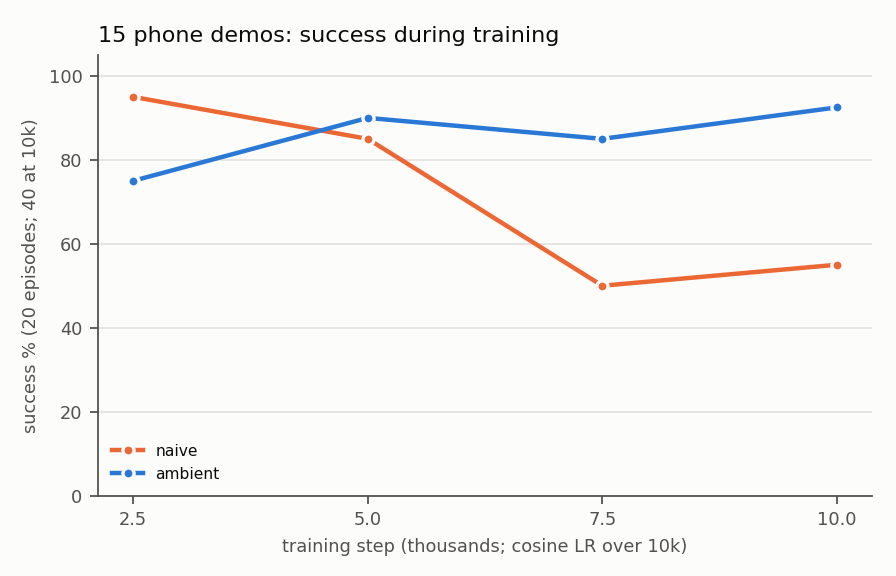
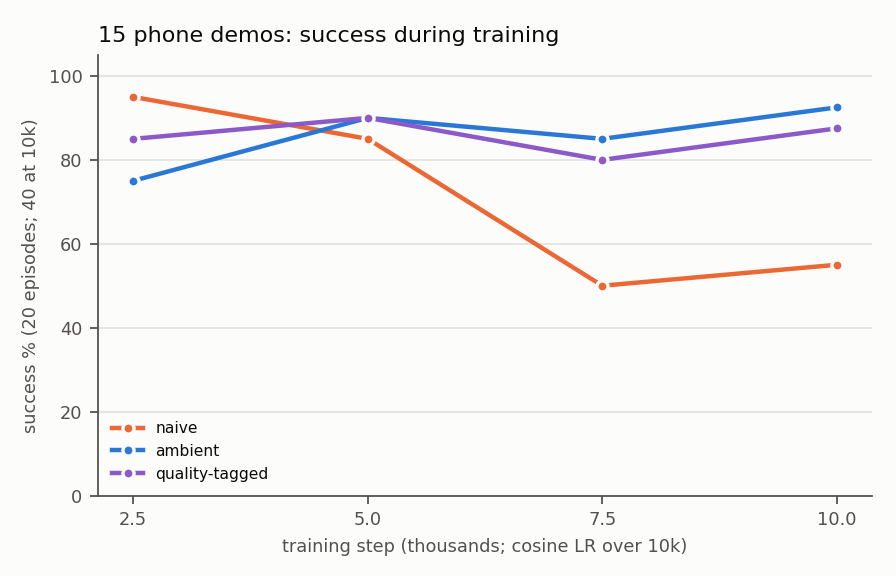
Method comparison: quality-tagged 87.5% at 10k (no decline); self-improvement on ambient drops 92.5 -> 67.5 (11 lost, 1 gained)

diff --git a/scripts/make_figures.py b/scripts/make_figures.py
@@ -273,7 +273,7 @@ def methods(out_fig="docs/figures"):
     si = json.load(open(f"{COLAB}/P5_SI_15/self_improve_best.json")) if os.path.exists(
         f"{COLAB}/P5_SI_15/self_improve_best.json") else None
     sp = eval_point("P5_SI_15", 13000)
-    rows.append(f"| self-improvement (1 round on {si['best'] if si else '?'}) | | | | "
+    rows.append(f"| self-improvement (1 round on {dict(P5_naive_15r='naive', P5_amb_15='ambient', P5_qual_15='quality-tagged').get(si['best'], si['best']) if si else '?'}) | | | | "
                 + (f"{sp[0]:.1f} ({sp[1]:.0f}–{sp[2]:.0f}) at 13k" if sp else "pending") + " | |")
     ax.set_ylim(0, 105)
     ax.set_xticks([2.5, 5, 7.5, 10])

diff --git a/colab/dcad.py b/colab/dcad.py
@@ -293,7 +293,7 @@ def cmd_fetch(a):
         files = remote(f"""
 import glob, os
 d = "{OUT}/{run}"
-fs = [f for f in ["run.json", "loss.csv", "probe.txt", "job.log"] if os.path.exists(f"{{d}}/{{f}}")]
+fs = [f for f in ["run.json", "loss.csv", "probe.txt", "job.log", "self_improve_best.json"] if os.path.exists(f"{{d}}/{{f}}")]
 fs += [os.path.basename(p) for p in glob.glob(f"{{d}}/job_status*.json")]
 fs += [os.path.relpath(p, d) for p in glob.glob(f"{{d}}/eval_*/summary.json") + glob.glob(f"{{d}}/eval_*/episodes.csv")]
 fs += [os.path.basename(p) for p in glob.glob(f"{{d}}/check_cache_*.json") + glob.glob(f"{{d}}/grasp_diag_*.json")]

diff --git a/README.md b/README.md
@@ -59,15 +59,21 @@ At 15 demos naive training ends mid-range (55%). Methods compared on the same 15
 | *baseline: naive, 5k checkpoint* | | 85 | | | |
 | naive | 95 | 85 | 50 | 55.0 (40–69) | 67.5 |
 | ambient | 75 | 90 | 85 | **92.5 (80–97)** | 85.0 |
-| quality-tagged | | | | *running* | |
-| velocity-normalized (naive) | | | | *pending* | |
-| self-improvement (1 round on the best) | | | | *pending* | |
+| quality-tagged | 85 | 90 | 80 | 87.5 (74–95) | 80.0 |
+| velocity-normalized (naive) | | | | *running* | |
+| self-improvement (1 round on ambient) | | | | 67.5 (52–80) at 13k | |
 <!-- /METHODS TABLE -->
 
 - **Naive training peaks early and then declines** (95% at 2.5k → 55% at 10k). The original run and a rerun with
   the same seed agree, and the decline also shows on the separate validation layouts (95% → 67.5%).
 - **Ambient does not decline** and ends at 92.5%. That matches the best naive checkpoint without having to pick it,
   and beats the naive 5k baseline (85%) by about 8 points (within the intervals).
+- **Quality tags also hold up** (87.5% at 10k, no late decline) and end 5 points below ambient on both seed sets (within the intervals).
+- **Self-improvement made the best run worse.** Ambient won the validation selection (85 vs 80 vs 67.5). Its
+  rollouts succeeded 93/100 (sampling noise on), and 3k more steps on those plus the 15 clips dropped it from 92.5% to
+  67.5% on the same 40 episodes (11 lost, 1 gained; exact McNemar p ≈ 0.006). The grasp point moved +0.8 cm in x,
+  like naive's late drift. Not diagnosed further: the 93 rollouts outweigh the 15 clips and are treated as clean, and
+  the LR restarts at 5e-5.
 - **The late failures are grasp drift, not copying.** On the same 20 episodes, naive's grasp point moves +0.6 cm in
   x from 5k to 10k (in 15 of 20), away from the training clips' average. The 10k misses are no closer to their
   nearest training clip's grasp than to the average one (`scripts/grasp_vs_train.py`).

diff --git a/NOTES.md b/NOTES.md
@@ -443,3 +443,14 @@ all runs even past Thursday noon.
   (2.1 cm) than to the mean offset (2.6 cm), and the nearest clips' own offsets are ordinary (2.4 cm). So: a
   systematic drift away from the demos late in training, not copying of individual noisy clips. Don't call it
   memorization.
+
+## 2026-10-15 09:45: quality and self-improvement at 15 demos
+
+- P5_qual_15: 85 / 90 / 80 / 87.5 (k40, CI 74–95); validation 80. No late decline; 5 points below ambient on both seed sets.
+- SI selection (validation, 10k): naive 67.5, ambient 85, quality 80 -> ambient (P5_SI_15/self_improve_best.json).
+- P5_SI_15: rollouts at noise 1.0 succeeded 93/100; 3k steps (LR 5e-5 restart, cosine) on 15 clips + 93 rollouts ->
+  67.5% at 13k (k40, CI 52–80) vs ambient's 92.5% on the same seeds. Paired: 26 both, 11 lost, 1 gained (McNemar p 0.006).
+  Mean grasp offset x 1.48 -> 2.28 cm (same drift direction as naive 5k->10k). Not diagnosed; candidates: rollouts
+  outweigh clips 6:1 and get t_min 0, noisy-sampled grasps, LR restart.
+- dcad fetch now also pulls self_improve_best.json.
+- Still running: P5_naive_15_vn, P5_naive_30 (k40 re-eval), P5_amb_30.
